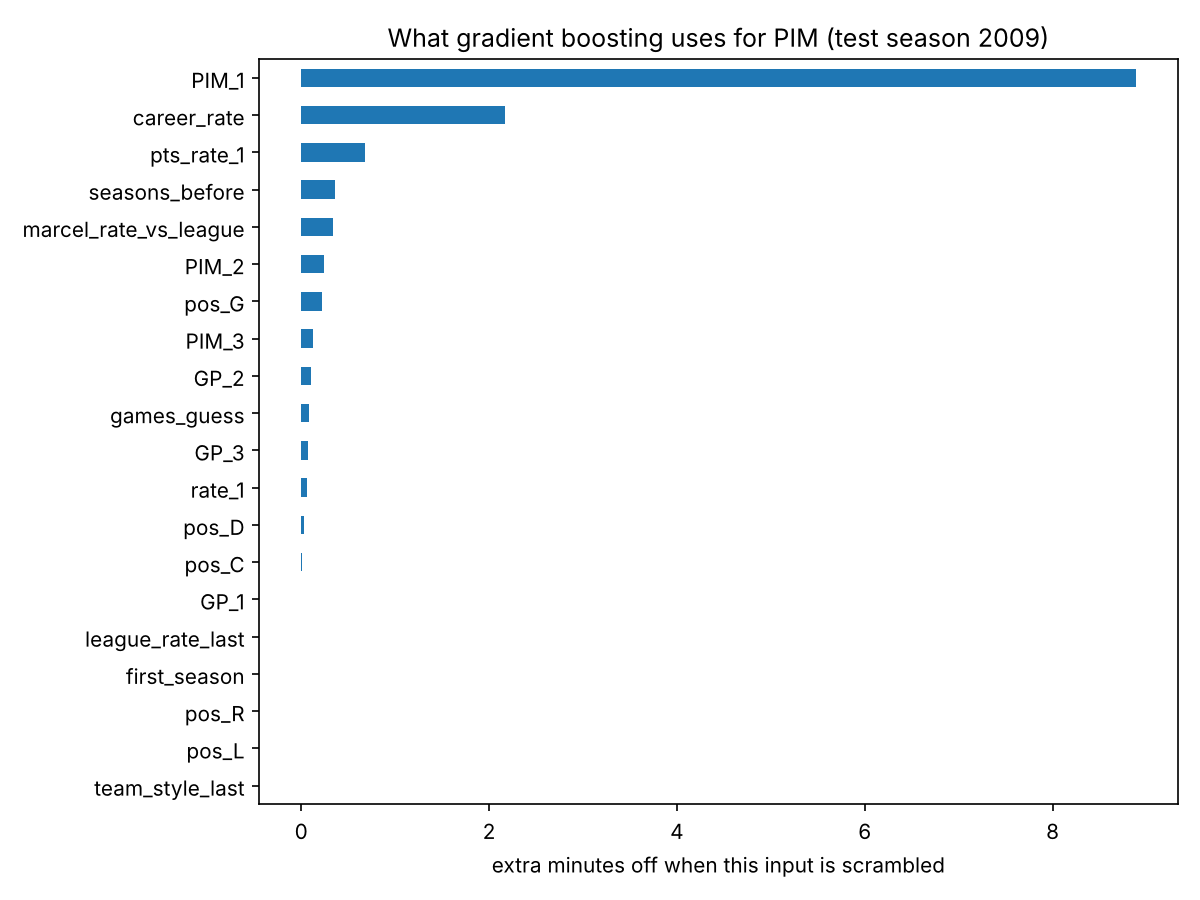
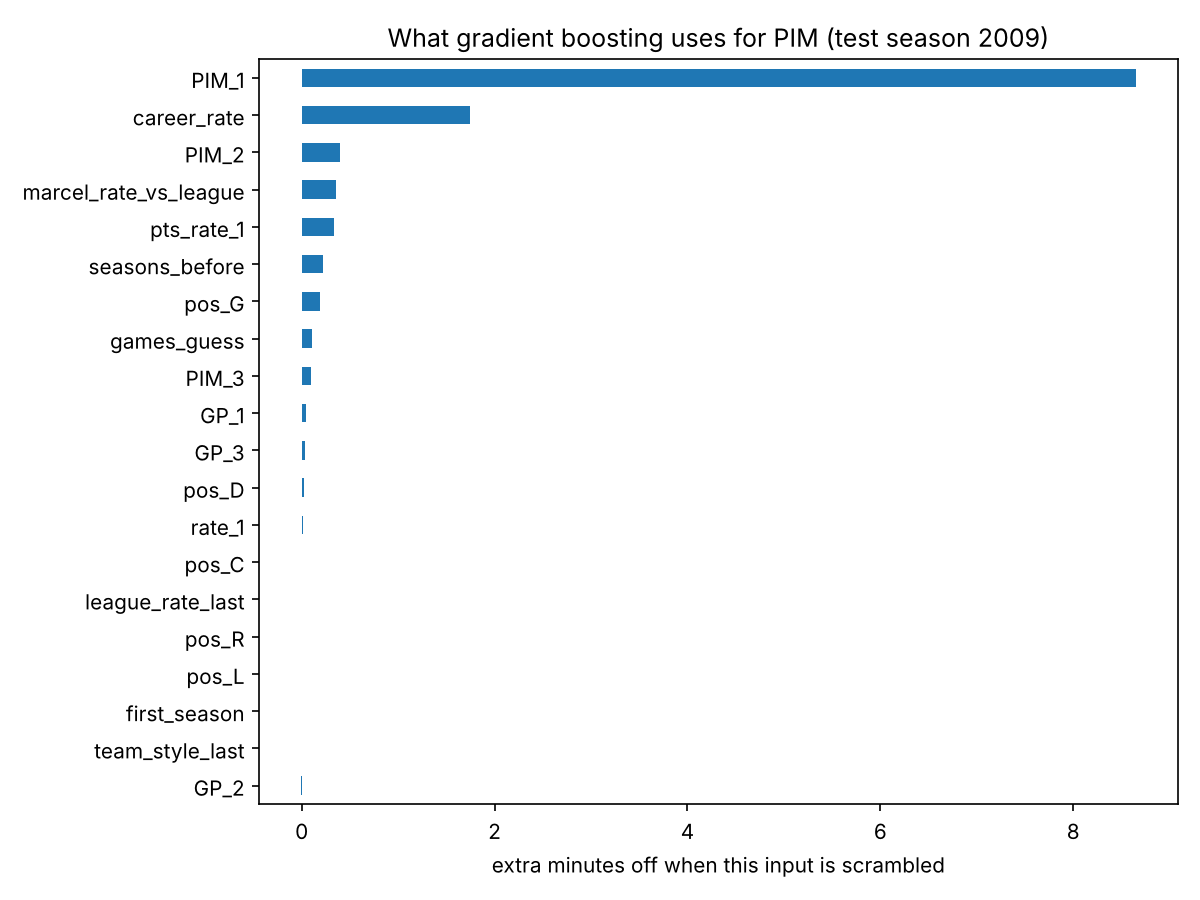
slides future info

diff --git a/docs/model_settings.md b/docs/model_settings.md
@@ -1,0 +1,115 @@
+# Model settings: what went in, what we tried, what was chosen, why
+
+For every model: the **inputs**, the **settings tried**, the setting the **practice test chose** (most often, over the 9 test seasons) and **why** those values. All values are copied from the notebooks. What the inputs mean: glossary at the end.
+
+## Short version (what to say)
+
+- **Linear regression:** we tried 2, 3 or 5 inputs; the practice test picked the set each season.
+- **Decision tree:** kept shallow (2–4 questions in a row), because deeper trees memorised; the depth curve shows it.
+- **k-nearest neighbours:** we tried small and large neighbourhoods; with our amount of data the larger one worked best.
+- **Gradient boosting:** many small trees with a slow learning rate, the safe choice for small data; in (c) trained on absolute error, the same error we score with.
+- **Logistic regression (b):** changes are rare (26%), so they were weighted more; the yes/no cut-off was set low, because missing a change is worse than a false alarm.
+- **Clusters, recent-season weighting, ensembles:** the practice test chose the number of groups and how much recent seasons count.
+- **The rule behind all of them:** from simple to complex, chosen fairly on practice seasons, never on the test.
+
+The tables below are the detail, for the slides (one compact table per task) and for questions.
+
+---
+
+**How settings are chosen (all models):** before each test season, every setting is trained on the training seasons except the last 3, and scored on those 3 ("practice test", `pick_with_practice_test`). The best one is retrained on all training seasons and then scored on the test season. The test season is never used to choose.
+
+**Why small grids (2–6 values per setting):** every value is retrained 4 times per test season × 9 test seasons. The grids cover "simple" to "complex" so the practice test can show where memorising starts, without testing hundreds of values on only 30 teams per season.
+
+---
+
+## Task (a): conference ranking (notebooks 03, 05, 06)
+
+All models predict **points per game vs the season average** (`pts_vs_avg`); the NHL rules (`conference_rank`) turn the prediction into positions.
+
+**Input sets**
+- 3 inputs: `last_pts_vs_avg`, `avg3_pts_vs_avg`, `last_gd_per_game`
+- 5 inputs: the 3 + `roster_pts_vs_avg`, `roster_goalie_ga_vs_avg`
+- Style inputs (clusters only): `last_gf_vs_avg`, `last_ga_vs_avg`, `last_pim_vs_avg`, `last_pp_pct`, `last_pk_pct`
+
+| Model | Inputs | Settings tried | Chosen | Why these values |
+|---|---|---|---|---|
+| Linear regression | 2, 3 or 5 inputs (practice test chooses the set) | input set only (no settings) | 2 inputs (2 seasons), 3 inputs (3), 5 inputs (4) | Tests whether goal difference and the roster add information |
+| Decision tree | 5 | depth 2, 3, 4 × minimum teams per final box 10, 30 | depth 3, 10 teams | The tree learns from about 500–720 team-seasons. The depth curve (notebook 05) shows memorising from depth 4 on, so 2–4 covers "too simple" to "starts memorising"; at least 10–30 teams per box (⅓ to 1 season) stops a box from describing a handful of teams |
+| k-nearest neighbours | 5, scaled (StandardScaler) | k = 10, 25, 50 neighbours | k = 50 | About 500–720 team-seasons to learn from: 10 is "very local", 50 is "smooth". Scaling so no input dominates the distance |
+| Gradient boosting | 5 | 50 or 150 trees × depth 2 or 3; learning rate 0.05; each tree on 80% of the data | 50 trees, depth 2 | Small, shallow trees and a slow learning rate are the usual safe choice for small data; 150 trees and depth 3 test whether more complexity helps |
+| Pairwise logistic | differences of the 3 or 5 inputs between two teams (scaled, no centring so A−B = −(B−A)) | none (default strength) | — | Each pair appears twice (A vs B, B vs A) so neither position is favoured |
+| Voting | 5 | fixed: linear + kNN (k = 50) + boosting (50 trees, depth 2) | — | The settings the practice test chose most often for each member |
+| K-means team styles + linear | 3 inputs + one 0/1 column per style group | k = 3, 4, 6 groups | k = 3 (5 seasons), 6 (4) | 3 = "strong / average / weak", 6 = finer styles; scaler and k-means fitted on training seasons only |
+| Linear, recent seasons weighted | 3 | weight per season = decay^(years ago), decay 1, 0.95, 0.9, 0.8 | 1 (all equal) in 6 of 9 | 0.9 means a season 10 years ago counts 0.35; 0.8 means it counts 0.11 |
+| Learning curve (notebook 05) | 3, linear | train on the last 1, 3, 5, 10, 20 or all seasons | — | From "very small" to "all data" |
+| Depth curve (notebook 05) | 5, tree with no other limit | depth 1, 2, 3, 4, 6, 8, 12 | best 3 | Wide enough to show memorising clearly |
+
+**First round, per division (kept for the record, notebook 03):** target `rank / div_size`; linear on 3 inputs (`last_pts_vs_avg`, `roster_pts_vs_avg`, `roster_goalie_ga_vs_avg`) or all 9; random forest 200 trees × leaf 5, 20, 40 × depth 3, 6, unlimited (chosen most: leaf 20, depth 3); then on 5 inputs (3 + `avg3_pts_vs_avg`, `new_coach`): tree depth 2–4 × leaf 10, 30 (chosen: depth 4, leaf 30), kNN k = 10, 25, 50, 100 (chosen: 25), boosting 50/150 trees × depth 2/3 (chosen: 50, depth 3).
+
+## Task (b): coach change (notebook 03)
+
+**Model:** logistic regression with `class_weight="balanced"` (changes, only 26%, count as much as non-changes), missing values filled with the median plus a "was missing" column (`SimpleImputer`), inputs scaled (StandardScaler).
+
+| Input set | Inputs |
+|---|---|
+| Person 2's 4 | `coach_seasons`, `last_coach_win_pct`, `last_pts_vs_avg`, `last_season_coaches` |
+| + made playoffs | the 4 + `last_made_playoffs` |
+| + playoff win% | the 4 + `last_made_playoffs`, `last_coach_po_win_pct` |
+| + below usual | the 4 + `last_made_playoffs`, `last_coach_po_win_pct`, `pts_vs_usual` |
+| split win% | `coach_seasons`, `last_coach_reg_win_pct`, `last_coach_po_win_pct`, `last_made_playoffs`, `last_pts_vs_avg`, `last_season_coaches`, `pts_vs_usual` |
+
+- **Chosen by the practice test:** "+ below usual" in 6 seasons, "split win%" in 3.
+- **Cut-off for "yes, new coach":** tried 0.3, 0.4, 0.5, 0.6; chosen with a score that counts recall twice as much as precision (F2), because missing a change is worse than a false alarm. Chosen: 0.3 (4 seasons), 0.4 (3), 0.5 (2).
+
+## Task (c): penalty minutes (notebooks 04, 05, 06)
+
+**Inputs (20, all from earlier seasons or the starting roster):** `PIM_1`, `PIM_2`, `PIM_3`, `GP_1`, `GP_2`, `GP_3`, `rate_1`, `career_rate`, `marcel_rate_vs_league`, `games_guess`, `pts_rate_1`, `seasons_before`, `first_season`, `pos_C`, `pos_D`, `pos_L`, `pos_R`, `pos_G`, `team_style_last`, `league_rate_last`. Missing history is −1 for linear, tree and kNN; gradient boosting handles missing values itself.
+
+| Model | Settings tried | Chosen | Why these values |
+|---|---|---|---|
+| Marcel (rule, no learning) | weights 5, 4, 3 for the last 3 seasons; 100 games of league average added; games guess = 0.5 × last season's games + 0.1 × the season before + 20 | — | The standard Marcel recipe (Tom Tango); compared with the league rate of each season because penalties per game changed by era |
+| Linear regression | none | — | Scaled inputs |
+| Decision tree | depth 4, 6, 8; at least 50 players per box; splits chosen by absolute error | depth 4 | ~900 players per season allows deeper trees than (a); absolute error to match MAE |
+| k-nearest neighbours | k = 25, 100 | k = 100 | Many more rows than (a), so larger neighbourhoods are possible |
+| **Gradient boosting (final model)** | learning rate 0.05 or 0.1 × 7 or 15 leaves per tree; 300 trees; at least 40 players per leaf; **loss = absolute error** | 0.05, 7 leaves | Absolute error = what MAE measures (not pulled by enforcers); small trees + slow learning = less memorising |
+| Log transform test | linear and boosting (squared error), learning log(1 + PIM) | — | Tests the usual fix for a skewed target |
+| Rate × games | rate: boosting (squared error) on PIM per game, each player weighted by his games; games: boosting (absolute error) on games played, capped at 82 | — | A rate from 80 games is more reliable than one from 2 |
+| Two-step | classifier (boosting): any PIM?; regressor (boosting, absolute error) on players with PIM > 0; cut-off 0.5 | — | 12% of player-seasons have 0 |
+| Stacking | members: linear, tree (depth 6, 50 per box), kNN (k = 100), boosting; weights ≥ 0 learned on the 3 practice seasons | weights change by season (e.g. linear 0.03–0.57) | Weights learned without seeing the test season |
+| Boosting, recent seasons weighted | decay 1, 0.95, 0.9 | 1 (all equal) in 6 of 9 | Same idea as (a) |
+| Learning curve (notebook 05) | train on the last 1, 3, 5, 10, 20 or all seasons | — | From "very small" to "all data" |
+| Depth curve (notebook 05) | tree depth 1, 2, 4, 6, 8, 12, 16 | best 6 | Wider than (a) because there is more data |
+
+---
+
+## Glossary: what each input means
+
+| Input | Meaning |
+|---|---|
+| `last_pts_vs_avg` | Team's points per game last season ÷ league average (1.0 = average) |
+| `avg3_pts_vs_avg` | Same, averaged over the last 3 seasons |
+| `last_gd_per_game` | Goals scored minus conceded per game, last season |
+| `last_pyth` | Pythagorean expectation last season: GF² ÷ (GF² + GA²) |
+| `roster_pts_vs_avg` | Points last season of the players on this season's roster, vs average |
+| `roster_goalie_ga_vs_avg` | Goals conceded per 60 minutes last season by this season's goalies, vs average (higher = worse) |
+| `last_gf_vs_avg`, `last_ga_vs_avg` | Goals scored / conceded per game last season, vs average |
+| `last_pim_vs_avg` | Team penalty minutes per game last season, vs average |
+| `last_pp_pct`, `last_pk_pct` | Power-play % (goals with an extra player) and penalty-kill % (goals prevented with one less), last season |
+| `pts_vs_usual` | Last season's points minus the 3-season average (negative = worse than usual) |
+| `coach_seasons` | Seasons the current coach has been with the club |
+| `last_coach_win_pct` | Win % of last season's last coach (Person 2's version, includes playoffs) |
+| `last_coach_reg_win_pct`, `last_coach_po_win_pct` | The same coach's win % in the regular season / in the playoffs (0 if no playoffs) |
+| `last_season_coaches` | Number of coaches the club used last season (2+ = changed during the season) |
+| `last_made_playoffs` | 1 if the team made the playoffs last season |
+| `PIM_1`, `PIM_2`, `PIM_3` | Player's penalty minutes 1, 2, 3 seasons ago |
+| `GP_1`, `GP_2`, `GP_3` | Player's games 1, 2, 3 seasons ago |
+| `rate_1` | Penalty minutes per game last season |
+| `career_rate` | All earlier penalty minutes ÷ all earlier games |
+| `marcel_rate_vs_league` | Marcel's rate (see above), compared with the league rate (1.0 = league average) |
+| `games_guess` | Marcel's guess of games: 0.5 × last season + 0.1 × the season before + 20 |
+| `pts_rate_1` | Player's points per game last season |
+| `seasons_before` | Number of earlier NHL seasons |
+| `first_season` | 1 if he has no earlier NHL season |
+| `pos_C`, `pos_D`, `pos_L`, `pos_R`, `pos_G` | Position: centre, defence, left wing, right wing, goalie |
+| `team_style_last` | His team's penalty minutes per game last season |
+| `league_rate_last` | League penalty minutes per game last season |
